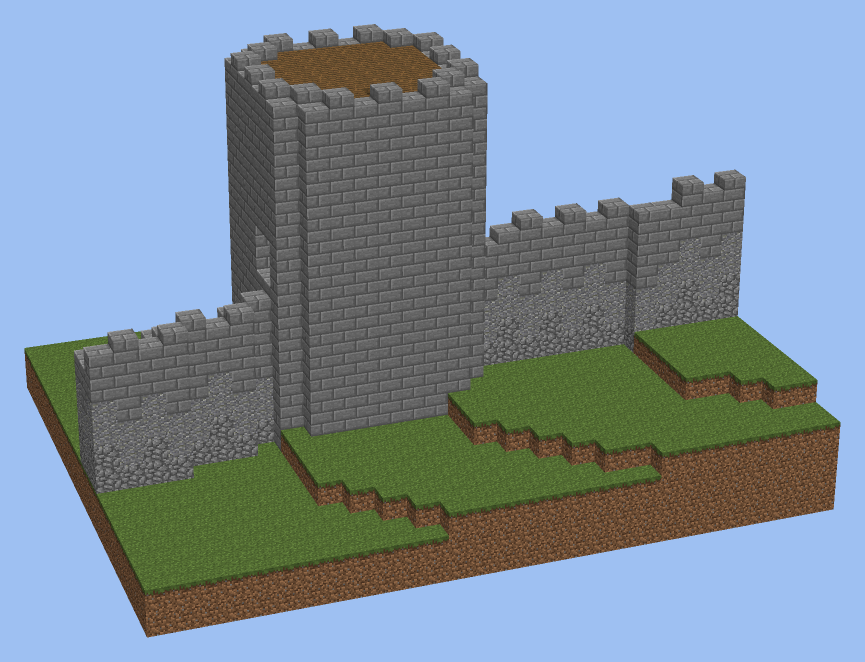
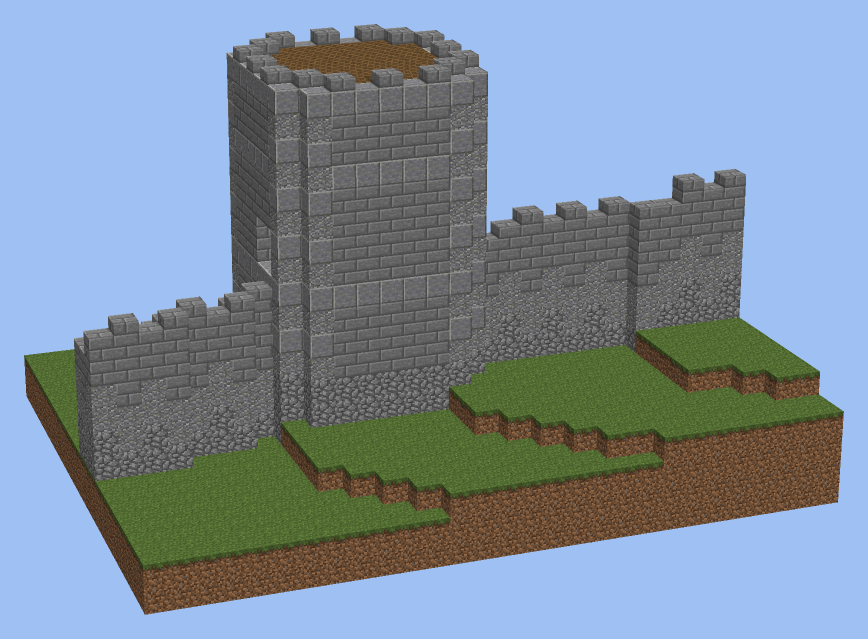
Chantry Gill assets: stall posts on a foot, the wall tower dressed
A stall's posts may stand on a full block (dark oak fences over a dark oak
log); a cut tower takes quoins at its corners, a string course at each floor
and a plinth. Tests and LAYER-DOCUMENT lines; every recorded hash holds.

Claude-Session: https://claude.ai/code/session_01SkxaMovP21NqxJRVezmVa6

diff --git a/freeform/lib/pgmvox/built/build.py b/freeform/lib/pgmvox/built/build.py
@@ -594,7 +594,7 @@ def _details(w, h, st, fr, windows, corners, crown_at, Lt, ground_at, square=Tru
 
 def round_tower(w, cx, cz, r, y0, height, wall=(B.STONEBRICK, 0), quoins=None, floor=(B.PLANKS, 1),
                 crenel=(B.STONEBRICK, 0), every=5, door_side="s", door=B.SPRUCE_DOOR, openings=(), ground_at=None,
-                slit=(B.AIR, 0), half=None, crenel_stair=None):
+                slit=(B.AIR, 0), half=None, crenel_stair=None, string=None, plinth=None):
     """A round tower on the floor at y0: a ring of walls two thick, r blocks to its outer face, from the ground under
     it to y0 + height; a floor every `every` courses and on its top, a ladder up the inside of the side away from
     its door through a hatch in each, crenels round the top's outer ring; a door at its foot on `door_side`;
@@ -602,7 +602,9 @@ def round_tower(w, cx, cz, r, y0, height, wall=(B.STONEBRICK, 0), quoins=None, f
     meets it; `slit` one block in each quarter of every storey. `quoins`, blocks cycled course by course on the
     ring's four compass cells. With `half` the tower is a square `2 half + 1` across with its corners cut, a ring one
     thick: straight faces of `2 half - 1` and an open corner between each, which reads round and takes detail.
-    `crenel_stair` lays the crenels as stairs rising outward. Returns the cells it stands on."""
+    `crenel_stair` lays the crenels as stairs rising outward. On a cut square the `quoins` stand at each cut corner
+    (its diagonal and the two face ends beside it); `string` rings every floor and the top on the outer face, and
+    `plinth` is its foot course. Returns the cells it stands on."""
     from pgmvox.core.orient import door as door_data, ladder as ladder_data
     cells, ring, outer = [], set(), set()
     R = int(math.ceil(r)) if half is None else half
@@ -628,8 +630,20 @@ def round_tower(w, cx, cz, r, y0, height, wall=(B.STONEBRICK, 0), quoins=None, f
         g = ground_at(x, z) if ground_at else y0
         for y in range(min(g, y0) + 1, top + 1):
             if (x, z) in ring:
-                q = quoins and (x - cx == 0 or z - cz == 0) and (x, z) in outer
-                w.set(x, y, z, *(quoins[(y - y0) % len(quoins)] if q else wall))
+                ax, az = abs(x - cx), abs(z - cz)
+                if half is not None:
+                    q = quoins and ax >= half - 1 and az >= half - 1
+                else:
+                    q = quoins and (ax == 0 or az == 0) and (x, z) in outer
+                if plinth is not None and y <= y0 + 1:
+                    blk = plinth
+                elif q:
+                    blk = quoins[(y - y0) % len(quoins)]
+                elif string is not None and (y == top or (y > y0 and (y - y0) % every == 0)):
+                    blk = string
+                else:
+                    blk = wall
+                w.set(x, y, z, *blk)
             elif y <= y0 or y == top or (y - y0) % every == 0:
                 w.set(x, y, z, *floor)
             else:

diff --git a/freeform/lib/boards/chantry-gill/assets/town_spec.py b/freeform/lib/boards/chantry-gill/assets/town_spec.py
@@ -34,9 +34,9 @@ build = [
      "note": "three deep at the main roof's half-block pitch, its eave a row of upper slabs"},
     {"id": "pen", "op": "wall", "line": [[14, 29], [14, 37], [26, 37], [26, 29]], "height": 1, "blocks": ["FENCE"]},
     {"id": "pen-gate", "op": "blocks", "boxes": [F(20, 41, 37, 20, 41, 37, ["FENCE_GATE", 0])]},
-    {"id": "stall-a", "op": "stall", "at": [44, 22], "facing": "s", "colours": [14, 0], "counter_stair": "SPRUCE_STAIRS", "post": ["LOG", 1], "banners": True, "sides": True},
-    {"id": "stall-b", "op": "stall", "at": [52, 22], "facing": "s", "colours": [11, 0], "post": ["LOG", 1], "banners": True, "sides": True},
-    {"id": "stall-c", "op": "stall", "at": [60, 22], "facing": "s", "colours": [4, 13], "post": ["LOG", 1], "banners": True, "sides": True,
+    {"id": "stall-a", "op": "stall", "at": [44, 22], "facing": "s", "colours": [14, 0], "counter_stair": "SPRUCE_STAIRS", "post": ["DARK_OAK_FENCE", 0], "foot": ["LOG2", 1], "banners": True, "sides": True},
+    {"id": "stall-b", "op": "stall", "at": [52, 22], "facing": "s", "colours": [11, 0], "post": ["DARK_OAK_FENCE", 0], "foot": ["LOG2", 1], "banners": True, "sides": True},
+    {"id": "stall-c", "op": "stall", "at": [60, 22], "facing": "s", "colours": [4, 13], "post": ["DARK_OAK_FENCE", 0], "foot": ["LOG2", 1], "banners": True, "sides": True,
      "goods": [["HAY", 0], ["PUMPKIN", 3], ["HAY", 0]]},
     {"id": "lamp-torch", "op": "posts", "at": [[70, 18], [70, 26]], "stack": [["STONE", 6], "COBBLE_WALL", ["TORCH", 5]]},
     {"id": "lamp-redstone", "op": "posts", "at": [[76, 18], [76, 26]],
@@ -66,6 +66,7 @@ for (cx, cz), a, b in (((40, 52), wall[0], wall[2]), ((100, 50), wall[2], wall[4
     ang = lambda p: math.degrees(math.atan2(p[1] - cz, p[0] - cx))                       # noqa: E731
     build.append({"id": f"tower-{cx}", "op": "round_tower", "at": [cx, cz], "half": 4, "height": 13, "openings_from": "floor",
                   "wall": ["STONEBRICK", 0], "door": "n", "crenel": ["SLAB", 5],
+                  "quoins": [["STONE", 5], ["STONE", 6]], "string": ["STONE", 6], "plinth": "COBBLE",
                   "openings": [[ang(a), 5], [ang(b), 5]], "floor": ["PLANKS", 1]})
 doc = {"document": "layers", "version": "draft-1",
        "board": {"name": "Chantry Gill town pieces", "x": [0, 139], "z": [0, 69], "floor": 40, "height": 80, "seed": 3},

diff --git a/freeform/lib/tests/test_pgmvox.py b/freeform/lib/tests/test_pgmvox.py
@@ -2228,12 +2228,20 @@ class HouseDetails(unittest.TestCase):
         self.assertEqual(w.id(4, 44, 4), B.AIR)                                      # the corner cut
         self.assertEqual(w.id(3, 44, 3), B.STONEBRICK)                               # the ring closed across it
 
+    def test_a_cut_tower_wears_quoins_at_its_corners_strings_at_its_floors_and_a_plinth(self):
+        w = self.build([{"id": "t", "op": "round_tower", "at": [0, 0], "half": 4, "height": 10, "y": 40,
+                         "quoins": [["STONE", 5], ["STONE", 6]], "string": ["STONE", 6], "plinth": "COBBLE"}]).world
+        self.assertEqual(w.id(0, 41, -4), B.COBBLE)
+        self.assertEqual({w.get(3, 46, 3), w.get(3, 47, 3)}, {(B.STONE, 5), (B.STONE, 6)})
+        self.assertEqual(w.get(0, 45, -4), (B.STONE, 6))                             # the first floor's string
+        self.assertEqual(w.get(0, 44, -4), (B.STONEBRICK, 0))
+
     def test_a_stall_hangs_banners_on_three_sides_and_closes_its_sides(self):
-        w = self.build([{"id": "s", "op": "stall", "at": [0, 0], "facing": "s", "colours": [14, 0], "post": ["LOG", 1],
-                         "banners": True, "sides": True}]).world
+        w = self.build([{"id": "s", "op": "stall", "at": [0, 0], "facing": "s", "colours": [14, 0],
+                         "post": ["DARK_OAK_FENCE", 0], "foot": ["LOG2", 1], "banners": True, "sides": True}]).world
         self.assertEqual(int((w.ids == B.WALL_BANNER).sum()), 5 + 3 + 3)        # front and both sides, none behind
         self.assertEqual([w.id(x, 41, 0) for x in (-2, 2)], [B.PLANKS] * 2)      # each side closed at its middle
-        self.assertEqual(w.id(-2, 43, 1), B.LOG)                                 # a corner is a full block
+        self.assertEqual([w.id(-2, y, 1) for y in (41, 42, 43)], [B.LOG2, B.DARK_OAK_FENCE, B.DARK_OAK_FENCE])
         bases = sorted({t["base"] for t in w.tiles if t["kind"] == "Banner"})
         self.assertEqual(bases, [1, 15])                                         # the roof's red and white
 

diff --git a/freeform/lib/pgmvox/built/props.py b/freeform/lib/pgmvox/built/props.py
@@ -52,13 +52,15 @@ def stall(w, x, y, z, facing="e", awning=14, stripe=0, post=(B.FENCE, 0), goods=
 
 
 def market_stall(w, x, y, z, facing="s", colours=(14, 0), width=5, post=(B.FENCE, 0), counter=(B.PLANKS, 1),
-                 counter_stair=None, goods=((B.PUMPKIN, 3), (B.MELON, 0), (B.HAY, 0)), banners=False, sides=False):
+                 counter_stair=None, goods=((B.PUMPKIN, 3), (B.MELON, 0), (B.HAY, 0)), banners=False, sides=False,
+                 foot=None):
     """A market stall `width` across and three deep on the floor at y, its counter on the side it faces: fence posts
     three high at the corners, a flat wool roof on the fourth course striped across in `colours`, a counter of
     `counter` between the front posts (or of `counter_stair` upside down, its lip toward the buyer) with `goods`
     on it in turn and a block of air over them. With `banners`, a banner of each roof block's colour hangs from it
     along the front and both sides, the back left open; with `sides`, the middle of each side is closed by the
-    counter's block, so the stall is walked into only from the back. Returns its cells."""
+    counter's block, so the stall is walked into only from the back; `foot` is a full block under each post. Returns
+    its cells."""
     from pgmvox.core.orient import stair as stair_data
     fx, fz = vec(facing)
     rx, rz = -fz, fx                                           # across the stall
@@ -71,7 +73,7 @@ def market_stall(w, x, y, z, facing="s", colours=(14, 0), width=5, post=(B.FENCE
         for v in (-half, half):
             px, pz = at(u, v)
             for yy in (1, 2, 3):
-                w.set(px, y + yy, pz, *post)
+                w.set(px, y + yy, pz, *(foot if foot is not None and yy == 1 else post))
     for u in range(3):
         for v in range(-half, half + 1):
             px, pz = at(u, v)

diff --git a/freeform/lib/pgmvox/document/layers.py b/freeform/lib/pgmvox/document/layers.py
@@ -801,7 +801,7 @@ def build(doc):
                                         tuple(L.get("colours", [14, 0])), L.get("width", 5),
                                         counter_stair=getattr(B, L["counter_stair"]) if "counter_stair" in L else None,
                                         post=block(L.get("post", "FENCE")), banners=L.get("banners", False),
-                                        sides=L.get("sides", False),
+                                        sides=L.get("sides", False), foot=block(L["foot"]) if "foot" in L else None,
                                         goods=tuple(block(g) for g in L["goods"]) if "goods" in L else
                                         ((B.PUMPKIN, 3), (B.MELON, 0), (B.HAY, 0))):
                 laid[x - x0, z - z0] = True
@@ -825,7 +825,8 @@ def build(doc):
                                   openings=[(a, oy + (y0 if L.get("openings_from") == "floor" else 0))
                                             for a, oy in L.get("openings", [])],
                                   ground_at=lambda x, z: int(Hi[x - x0, z - z0]), slit=block(L.get("slit", "AIR")),
-                                  half=L.get("half"), crenel_stair=getattr(B, L["crenel_stair"]) if "crenel_stair" in L
+                                  half=L.get("half"), string=block(L["string"]) if "string" in L else None,
+                                  plinth=block(L["plinth"]) if "plinth" in L else None, crenel_stair=getattr(B, L["crenel_stair"]) if "crenel_stair" in L
                                   else None)
             for x, z in got:
                 laid[x - x0, z - z0] = True

diff --git a/analysis/freeform-vs-studio/LAYER-DOCUMENT.md b/analysis/freeform-vs-studio/LAYER-DOCUMENT.md
@@ -142,9 +142,9 @@ the slope and rock in beds that follow the surface. The water's bed has a stack 
 | `house` | `at`, `heading`, `L`, `W`, `storeys`, `storey`, `style` (`town`, `plaster`, `brick`, `stone`, a name in `styles`, or an object), `roof`, `pitch`, `overhang`, `door`, `jetty`, `chimney` | `build.house` |
 | `blocks` | `boxes`, each a `box` (x0, y0, z0, x1, y1, z1) and a `block` | the document's own |
 | `field` | `rect`, `crops`, `rows`, `ditch`, `fence`, `gate`, `scarecrows`, `y` | `props.crop_field`, `props.scarecrow` |
-| `stall` | `at`, `facing`, `colours` (the roof's stripes), `width`, `post`, `counter_stair`, `goods`, `banners` (front and sides), `sides` (closed, entered from the back) | `props.market_stall` |
+| `stall` | `at`, `facing`, `colours` (the roof's stripes), `width`, `post`, `foot` (a full block under each post), `counter_stair`, `goods`, `banners` (front and sides), `sides` (closed, entered from the back) | `props.market_stall` |
 | `posts` | `at` (points), `stack` (blocks from the ground up: a lamp, a bollard) | the document's own |
-| `round_tower` | `at`, `r` or `half` (a square with its corners cut), `height`, `y`, `wall`, `floor`, `crenel`, `crenel_stair`, `door`, `openings` ([angle, y]: a wall-walk's way in; `openings_from: floor` counts y from its floor), `slit` | `build.round_tower` |
+| `round_tower` | `at`, `r` or `half` (a square with its corners cut), `height`, `y`, `wall`, `floor`, `crenel`, `crenel_stair`, `quoins`, `string`, `plinth`, `door`, `openings` ([angle, y]: a wall-walk's way in; `openings_from: floor` counts y from its floor), `slit` | `build.round_tower` |
 | `hedge` | `line` or `near` + `offset`, `leaves`, `modules`, `drop`, `grass` (in the checker's gaps) | `green.hedge` |
 | `small_trees` | `at` (points), `trunk`, `log`, `leaves`, `bite` | `green.round_oak` |
 | `flowers` | `area`, `flowers`, `along`, `rows` | `green.flower_rows` |
